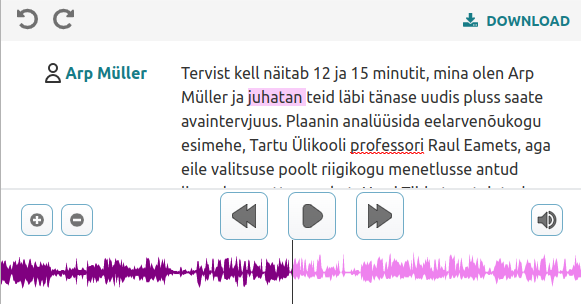
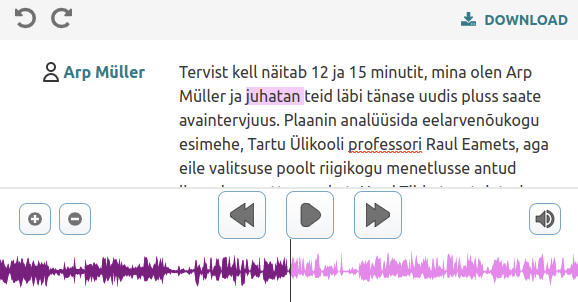
Fix speaker rename bug

diff --git a/src/lib/components/SpeakerSelect.svelte b/src/lib/components/SpeakerSelect.svelte
@@ -29,29 +29,24 @@
 	 1. 
 	*/
 
-	const getSpeakerNames = () => {
-		const speakerNodes = editor.view.state.doc.content;
-		let speakerNames = new Set();
-		speakerNodes.forEach((node) =>
-			node.attrs['data-name'] ? speakerNames.add(node.attrs['data-name']) : null
-		);
-		return Array.from(speakerNames);
-	};
 
-	$: isListOpen = false;
-	let selectedValue = node.attrs['data-name'];
-	let selectedId;
-	const setSelectedId = (selectedValue) => {
+	let isListOpen = false;
+	let initialName = node.attrs['data-name'];
+	$: selectedValue = $speakerNames[selectedId]
+	const getSelectedId = (selectedValue) => {
 		const i = $speakerNames.findIndex((x) => x === selectedValue);
-		if (i) selectedId = i;
+		if (i >= 0 ) return i
+		else {
+			return -1}
 	};
-	setSelectedId(selectedValue);
+	
+	let selectedId = getSelectedId(initialName);
 	let newSpeaker = '';
 	let editSpeakerId = -1;
 	let editingValue = '';
 	$: ids = $speakerNames.map((x, i) => i);
 
-	const showSpeakerName = (id) => {
+	const getSpeakerName = (id) => {
 		const res = $speakerNames[id];
 		if (res) return $speakerNames[id];
 		else return selectedValue;
@@ -95,7 +90,7 @@
 	const handleNewSpeakerSave = (name) => {
 		if (name.length > 0) {
 			addName(name);
-			setSelectedId(name);
+			selectedId = getSelectedId(name);
 			updateAttributes({ 'data-name': name });
 			newSpeaker = '';
 		}
@@ -106,34 +101,29 @@
 		if (e.charCode === 13) handleNewSpeakerSave(name);
 	};
 
-	/* 	const handleClickOutside = (e) => { isListOpen = false}; */
-
 	const selectSpeaker = (id) => {
 		selectedId = id;
-		updateAttributes({ 'data-name': showSpeakerName(id) });
-		/* speakers = speakers.map(x =>{
-            if (x.label === selection) return {selected: true, label: x.label, editing: false}
-            else return {selected: false, label: x.label, editing: false}
-        }) */
+		updateAttributes({ 'data-name': getSpeakerName(id) });
 	};
 
 	const handleStartEdit = (speakerId) => {
 		if (typeof speakerId == 'number') {
 			editSpeakerId = speakerId;
-			editingValue = showSpeakerName(speakerId);
+			editingValue = getSpeakerName(speakerId);
 		}
 	};
 
 	const handleSave = (speakerId) => {
 		const speakerNodes = editor.view.state.doc.content;
-		const name = showSpeakerName(speakerId);
+		const name = getSpeakerName(speakerId);
 		speakerNodes.forEach((node) =>
 			// @ts-ignore
 			node.attrs['data-name'] === name ? (node.attrs['data-name'] = editingValue) : null
 		);
 		changeName(speakerId, editingValue);
-		selectedId = $speakerNames.findIndex((x) => x === editingValue);
-		updateAttributes({ 'data-name': showSpeakerName(speakerId) });
+		selectedId = getSelectedId(editingValue);
+		// updateAttributes({ 'data-name': getSpeakerName(speakerId) });
+		
 		// updateAttributes({ 'data-name': editingValue });
 		editingValue = '';
 		editSpeakerId = -1;
@@ -152,7 +142,7 @@
 <NodeViewWrapper class="svelte-component speaker {selected}">
 	<div class="speaker-name flex group cursor-pointer w-auto hover:bg-accent" on:click={handleClick}>
 		<Icon name="user" class="" />
-		<span class="text-primary font-bold font-sans">{showSpeakerName(selectedId)}</span>
+		<span class="text-primary font-bold font-sans">{selectedValue}</span>
 		<Icon name="dropdown-arrow" class="invisible group-hover:visible" />
 	</div>
 	<div class="speaker-time">{numberToTime(time)}</div>
@@ -184,19 +174,19 @@
 							<button
 								class="w-min hover:text-primary"
 								on:click={() => {
-									/* speaker.editing=false; */ handleSave(speakerId);
+									handleSave(speakerId);
 								}}>{$_('speakerSelect.save')}</button
 							>
 						</div>
 					{:else}
 						<div
 							on:click={() => {
-								/* selectedValue = speaker.label */ selectSpeaker(speakerId);
+								selectSpeaker(speakerId);
 								isListOpen = false;
 							}}
 							class="cursor-pointer inline w-48"
 						>
-							{showSpeakerName(speakerId)}
+							{getSpeakerName(speakerId)}
 						</div>
 						<div>
 							<button class="w-min hover:text-primary" on:click={() => handleStartEdit(speakerId)}
@@ -214,10 +204,10 @@
 <style>
 	:global(.speaker) {
 		display: grid;
-		grid-template-columns: 150px auto;
+		grid-template-columns: auto auto;
 		grid-template-rows: min-content auto;
 		width: auto;
-		grid-column-gap: 10px;
+		grid-column-gap: 1px;
 		margin-bottom: 10px;
 	}
 

diff --git a/src/lib/components/Tiptap.svelte b/src/lib/components/Tiptap.svelte
@@ -40,7 +40,10 @@
 	});
 
 	onMount(() => {
-		speakerNames.set([]);
+		console.log(content)
+		const names = getSpeakerNames(content);
+		// @ts-ignore
+		speakerNames.set(names);
 		editor = new Editor({
 			element: element,
 			extensions: [
@@ -73,14 +76,12 @@
 
 			onTransaction: () => {
 				// force re-render so `editor.isActive` works as expected
-				editor = editor;
+				// editor = editor;
 				if (!demo) debouncedSave();
 				// console.log(editor.schema);
 			}
 		});
-		const names = getSpeakerNames();
-		// @ts-ignore
-		speakerNames.set(names);
+		
 
 		function handleWordClick(e) {
 			// @ts-ignore
@@ -122,10 +123,9 @@
 		saveChanges(editor.getJSON(), fileId);
 	}
 
-	const getSpeakerNames = () => {
-		const speakerNodes = editor.view.state.doc.content;
+	const getSpeakerNames = (content) => {;
 		let speakerNames = new Set();
-		speakerNodes.forEach((node) =>
+		content.content.forEach((node) =>
 			node.attrs['data-name'] ? speakerNames.add(node.attrs['data-name']) : null
 		);
 		return Array.from(speakerNames);

diff --git a/src/routes/terms.svelte b/src/routes/terms.svelte
@@ -38,3 +38,13 @@
 	</p>
 	<p class="mb-2 mt-3 font-extrabold">Kasutustingimused kehtivad alates 09.05.2022</p>
 </div>
+
+<footer class="footer footer-center p-10 bg-[#13070C] rounded text-white mt-52">
+	<div class="grid grid-flow-col gap-4">
+		<a href="/contact" class="link link-hover">{$_('index.contact')}</a>
+		<a href="/terms" class="link link-hover">{$_('index.terms')}</a>
+	</div>
+	<a href="https://taltech.ee/tarkvarateaduse-instituut" target="_blank">
+		<img src="/static/taltech-logo-cutout.svg" alt="TalTech" />
+	</a>
+</footer>

diff --git a/src/routes/contact.svelte b/src/routes/contact.svelte
@@ -26,3 +26,13 @@
 		<span class="link">tugi[ät]tekstiks.ee</span>
 	</p>
 </div>
+
+<footer class="footer footer-center p-10 bg-[#13070C] rounded text-white mt-52">
+	<div class="grid grid-flow-col gap-4">
+		<a href="/contact" class="link link-hover">{$_('index.contact')}</a>
+		<a href="/terms" class="link link-hover">{$_('index.terms')}</a>
+	</div>
+	<a href="https://taltech.ee/tarkvarateaduse-instituut" target="_blank">
+		<img src="/static/taltech-logo-cutout.svg" alt="TalTech" />
+	</a>
+</footer>

diff --git a/src/routes/index.svelte b/src/routes/index.svelte
@@ -141,7 +141,7 @@
 	</div>
 </div>
 
-<footer class="footer footer-center p-10 bg-[#13070C] text-base-content rounded text-white">
+<footer class="footer footer-center p-10 bg-[#13070C] rounded text-white">
 	<div class="grid grid-flow-col gap-4">
 		<a href="/contact" class="link link-hover">{$_('index.contact')}</a>
 		<a href="/terms" class="link link-hover">{$_('index.terms')}</a>

diff --git a/README.md b/README.md
@@ -1,24 +1,6 @@
-# create-svelte
-
-Everything you need to build a Svelte project, powered by [`create-svelte`](https://github.com/sveltejs/kit/tree/master/packages/create-svelte).
-
-## Creating a project
-
-If you're seeing this, you've probably already done this step. Congrats!
-
-```bash
-# create a new project in the current directory
-npm init svelte@next
-
-# create a new project in my-app
-npm init svelte@next my-app
-```
-
-> Note: the `@next` is temporary
+## Developing
 
 Create a .env file into the root folder. 
-
-## Developing
 
 Once you've created a project and installed dependencies with `npm install` (or `pnpm install` or `yarn`), start a development server:
 
